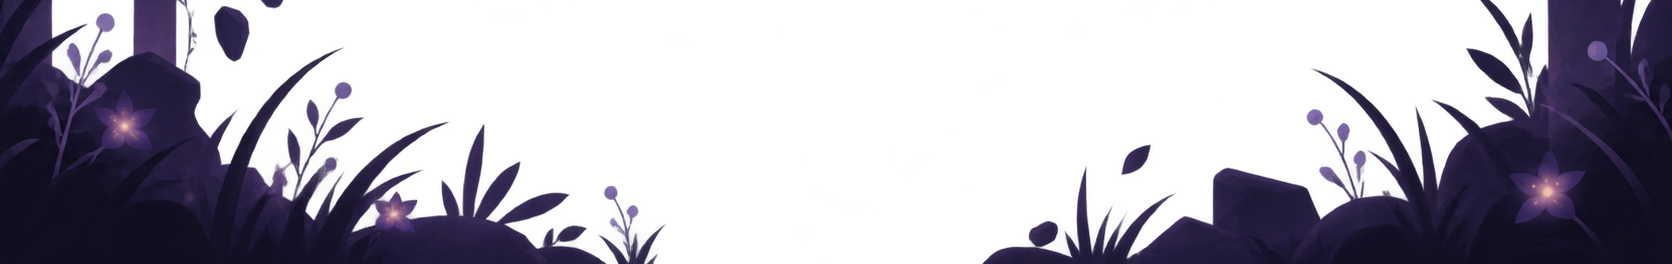
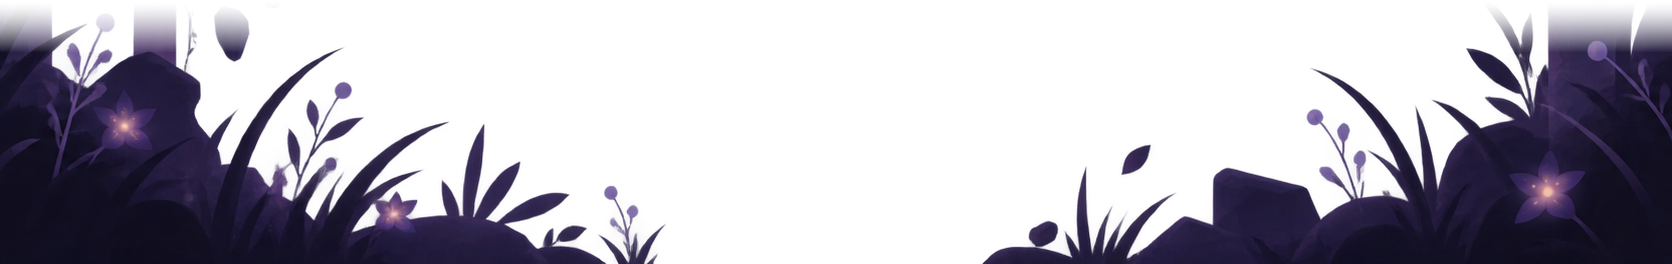
Foreground feathering, palette-matched arch, scattered mote lanes
- garden ground strip: top crop edge feathered 52px, so the two column
  stumps sliced flat by extraction now fade into the sky instead of
  showing hard rectangles on every screen
- x=15900 keyhole_arch -> grand_arch: the keyhole read far darker than its
  act's light-stone family (palette drift the sweep flagged in reverse)
- mote lanes: per-mote position/size/alpha/timing scatter, so a lane reads
  as drifting light rather than a ruler of identical dots
Pacing floor holds: 0 violations, min gap 400.

Changed region(s): [[0.8708, 0.0, 1.0, 0.2121], [0.0, 0.0, 0.1555, 0.2121], [0.1555, 0.0, 0.1866, 0.0303]]

diff --git a/src/scenes/DayScene.ts b/src/scenes/DayScene.ts
@@ -327,16 +327,28 @@ export class DayScene extends Phaser.Scene {
     this.motes = []
     for (const arc of MOTE_ARCS) {
       for (let i = 0; i < arc.count; i++) {
-        const t = i / (arc.count - 1)
+        // scatter along the arc rather than stepping it: evenly spaced,
+        // identical dots read as a ruler, not as drifting light
+        const t = (i + (Math.random() - 0.5) * 0.55) / (arc.count - 1)
         const mx = arc.x - arc.spanX / 2 + arc.spanX * t
-        const my = arc.y + Math.sin(t * Math.PI) * -arc.spanY * 0.5 + arc.spanY * 0.18
+        const my =
+          arc.y + Math.sin(t * Math.PI) * -arc.spanY * 0.5 + arc.spanY * 0.18 + (Math.random() - 0.5) * 46
+        const size = 26 + Math.random() * 18
         const img = this.add
-          .image(mx, my, 'softdot').setTint(0xffd9a0)
-          .setDisplaySize(34, 34)
-          .setAlpha(0.75)
+          .image(mx, my, 'softdot')
+          .setTint(0xffd9a0)
+          .setDisplaySize(size, size)
+          .setAlpha(0.6 + Math.random() * 0.25)
           .setBlendMode(Phaser.BlendModes.ADD)
           .setDepth(2.5)
-        this.tweens.add({ targets: img, alpha: 0.45, duration: 900 + i * 90, yoyo: true, repeat: -1 })
+        this.tweens.add({
+          targets: img,
+          alpha: 0.38 + Math.random() * 0.12,
+          duration: 800 + Math.random() * 900,
+          yoyo: true,
+          repeat: -1,
+          ease: 'Sine.easeInOut',
+        })
         this.motes.push({ x: mx, y: my, img })
       }
     }

diff --git a/src/level.ts b/src/level.ts
@@ -158,7 +158,7 @@ export const FEATURES: PieceFeature[] = [
   gnd(14700, 'gothic_arch', 500, { flipX: true }),
   gnd(15300, 'wall_multi_window', 560, { flow: 'spread' }),
   top(15300, 'ceiling_pods', 250, { flipX: true }), // drop-window: the sky is shut — flare and thread the bays
-  gnd(15900, 'keyhole_arch', 460, { flipX: true }), // large-native: no upscale blur
+  gnd(15900, 'grand_arch', 460, { flipX: true }), // large-native, light stone: matches the act's palette
   top(15900, 'root_tangle', 280, { flipX: true }),
   gnd(16500, 'triple_arcade', 480, { flipX: true }),
   top(16500, 'seed_pod_cluster_b', 260, { motion: { kind: 'bob', amp: 52, period: 3.6 } }), // breathing gap: the canopy sinks toward the columns
